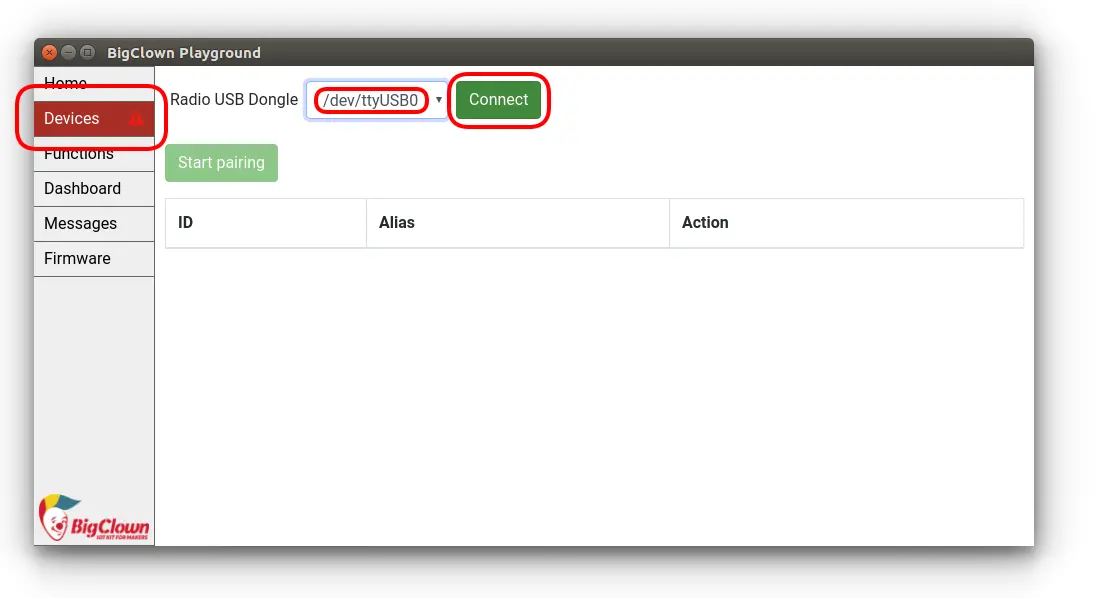
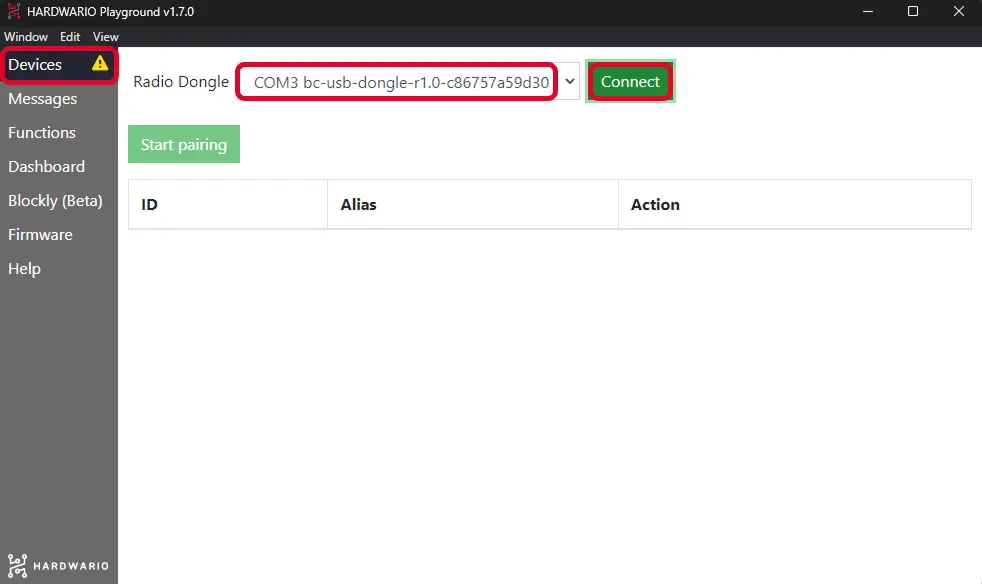
Add all new screenshots

diff --git a/i18n/cs/docusaurus-plugin-content-docs-projects/current/dragons-fire-level-2.md b/i18n/cs/docusaurus-plugin-content-docs-projects/current/dragons-fire-level-2.md
@@ -2,6 +2,7 @@
 slug: dragons-fire-level-2
 title: Dračí dech level 2
 ---
+import Image from '@theme/IdealImage';
 ## Úvod
 
 Troufáš si? Sestav jeden projekt, ve kterém zprovozníš dva typy své oblíbené soutěže naráz a budeš mezi nimi libovolně přepínat! Při párty máte o zábavu postaráno. 🕺
@@ -17,7 +18,11 @@ I tentokrát ti postačí základní HARDWARIO sada, tedy [**Start Set**](https:
 
 1. Start Set sestav a spáruj. Na Core Module potřebuješ zase ten starý známý firmware **bcf-radio-push-button**.
 
-![firmware do core modulu](https://res.cloudinary.com/lukasfabik/image/upload/v1571551047/projects/hardcore-upgrade-of-iot-party-game/image6.png)
+<div class="container">
+  <div class="row">
+    <Image img={require('./img/push-the-button/push-the-button_playground-devices-connected.webp')}/>
+  </div>
+</div>
 
 ## Změř nejžhavější dech
 